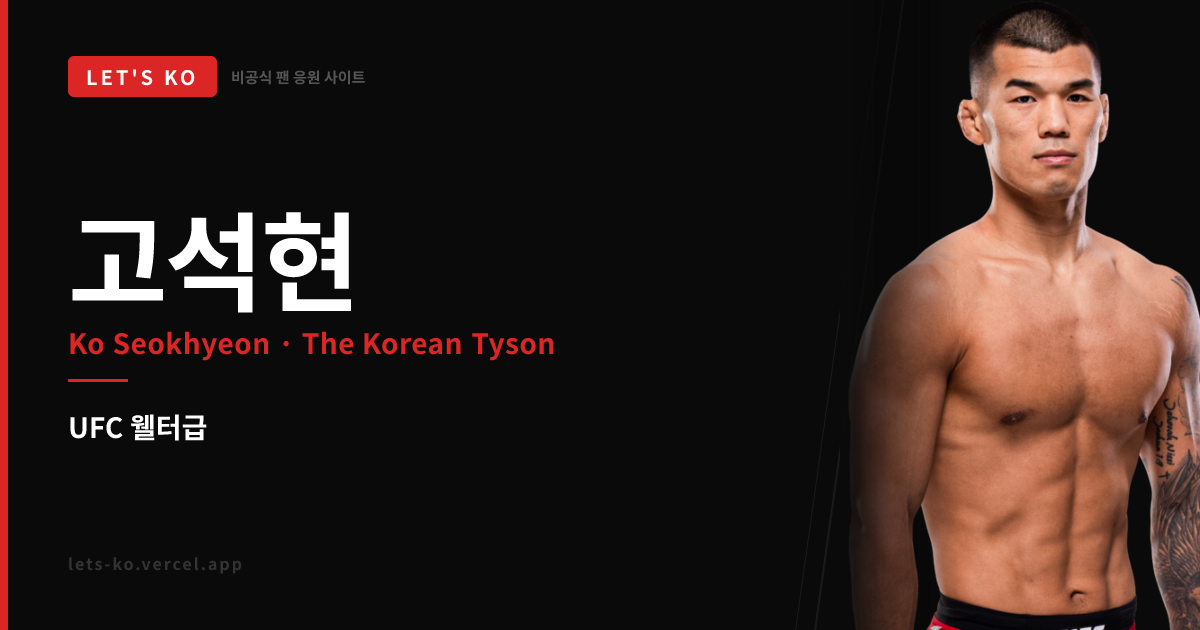
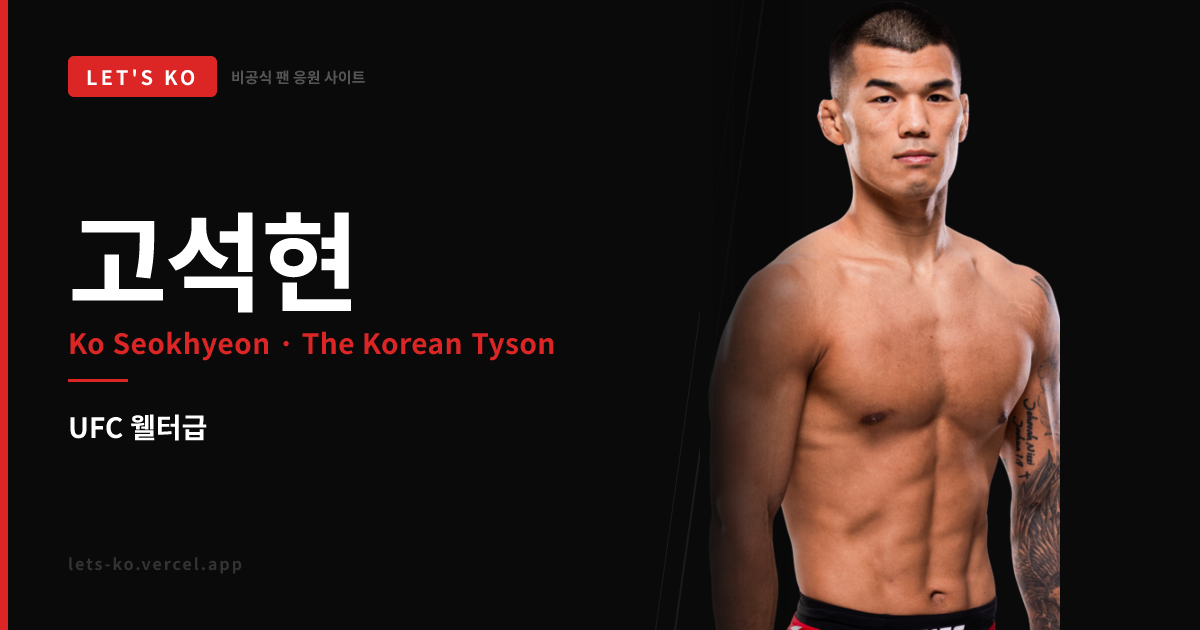
feat: OG 이미지 레이아웃 조정 (선수 사진 중앙 배치)
- 선수 이미지 marginRight 56px → 140px로 확대해 우측 끝에서 이동
- 장식 대각선 위치 이미지 경계에 맞게 조정 (right 480/500px)
- public/og.png 정적 파일 재생성

Changed region(s): [[0.5858, 0.0, 1.0, 1.0]]

diff --git a/src/app/api/og/route.tsx b/src/app/api/og/route.tsx
@@ -62,7 +62,7 @@ export async function GET() {
         <div
           style={{
             position: "absolute",
-            right: "340px",
+            right: "480px",
             top: 0,
             bottom: 0,
             width: "2px",
@@ -73,7 +73,7 @@ export async function GET() {
         <div
           style={{
             position: "absolute",
-            right: "360px",
+            right: "500px",
             top: 0,
             bottom: 0,
             width: "1px",
@@ -88,7 +88,7 @@ export async function GET() {
             flex: 1,
             display: "flex",
             flexDirection: "column",
-            padding: "56px 60px 56px 68px",
+            padding: "56px 48px 56px 68px",
             justifyContent: "space-between",
           }}
         >
@@ -205,6 +205,7 @@ export async function GET() {
               display: "flex",
               overflow: "hidden",
               position: "relative",
+              marginRight: "140px",
             }}
           >
             <img
